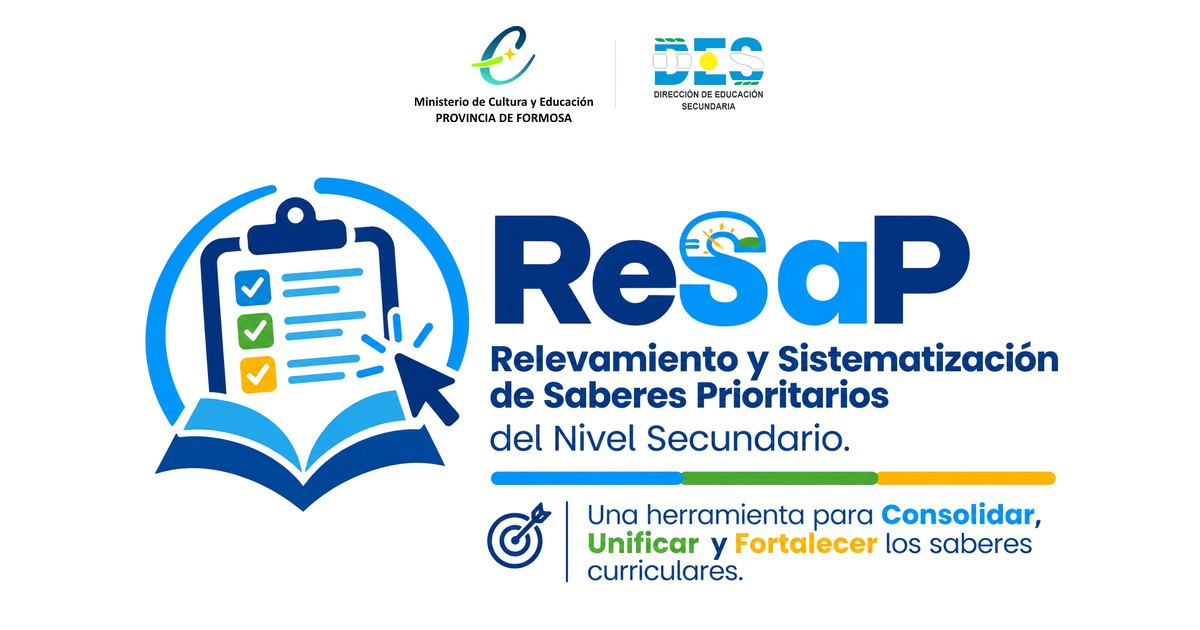
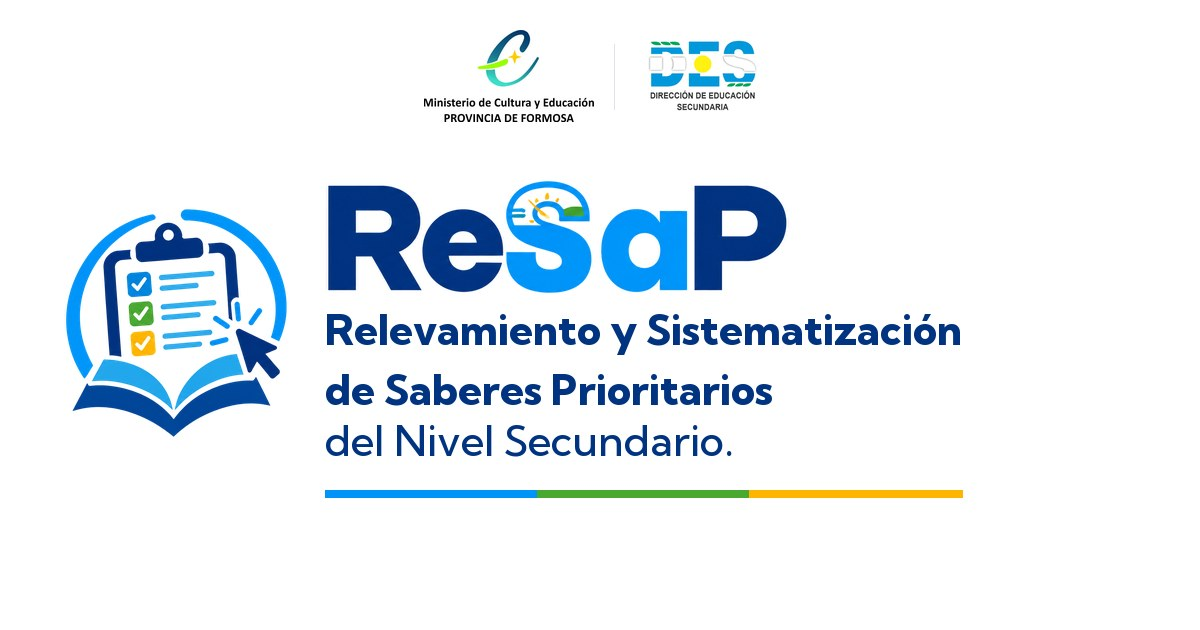
Vista previa nítida y distinta para el formulario y el panel
La imagen se leía borrosa al tamaño de miniatura de WhatsApp: era la
placa recortada, con el eslogan en letra chica. Ahora recortar_resap.py
arma dos imágenes desde cero, con pocos elementos grandes: los logos,
el símbolo y "ReSaP" a mayor resolución, y el nombre completo escrito
con la tipografía de la marca (Kumbh Sans, convertida de woff2 a ttf al
vuelo con fontTools) en vez de recortado de la placa.

Las dos páginas usaban la misma imagen. Ahora se distinguen a simple
vista: el formulario lleva el filete tricolor de siempre; el panel, una
etiqueta "Equipo de Planificación Curricular" y una barra azul sola en
vez del filete, que es del formulario.

El eslogan sale de la imagen: ya está en og:description como texto real.

Changed region(s): [[0.0308, 0.2714, 0.8942, 0.9349], [0.3392, 0.0302, 0.4933, 0.2111], [0.5242, 0.0603, 0.6475, 0.181]]

diff --git a/dashboard.html b/dashboard.html
@@ -15,11 +15,11 @@
   <meta property="og:url" content="https://des-formosa.github.io/relevamiento-curricular/dashboard.html">
   <meta property="og:title" content="ReSaP — Panel de resultados">
   <meta property="og:description" content="Qué saberes y contenidos priorizan los docentes de Formosa, materia por materia. Para el equipo de Planificación Curricular: hay que ingresar con usuario.">
-  <meta property="og:image" content="https://des-formosa.github.io/relevamiento-curricular/assets/img/resap-compartir.jpg">
+  <meta property="og:image" content="https://des-formosa.github.io/relevamiento-curricular/assets/img/resap-compartir-panel.jpg">
   <meta property="og:image:type" content="image/jpeg">
   <meta property="og:image:width" content="1200">
   <meta property="og:image:height" content="630">
-  <meta property="og:image:alt" content="ReSaP: Relevamiento y Sistematización de Saberes Prioritarios del Nivel Secundario. Ministerio de Cultura y Educación y Dirección de Educación Secundaria de Formosa.">
+  <meta property="og:image:alt" content="ReSaP: Relevamiento y Sistematización de Saberes Prioritarios del Nivel Secundario. Panel del equipo de Planificación Curricular. Ministerio de Cultura y Educación y Dirección de Educación Secundaria de Formosa.">
   <meta name="twitter:card" content="summary_large_image">
   <link rel="icon" type="image/png" href="assets/img/resap-icono.png">
   <link rel="apple-touch-icon" href="assets/img/resap-icono-180.png">

diff --git a/assets/img/recortar_resap.py b/assets/img/recortar_resap.py
@@ -8,17 +8,30 @@ Genera, en esta misma carpeta:
                         cuadraditos blancos)
   resap-icono.png       el símbolo en 64 × 64, para la pestaña del navegador
   resap-icono-180.png   el mismo en 180 × 180, para el acceso directo del celular
-  resap-compartir.jpg   1200 × 630, la vista previa cuando se comparte el link
-                        (WhatsApp, Facebook, Telegram): los logos del Ministerio y
-                        la DES arriba y la placa de ReSaP debajo
+  resap-compartir.jpg        vista previa al compartir el link del formulario
+                             (WhatsApp, Facebook, Telegram): 1200 × 630, con
+                             filete tricolor
+  resap-compartir-panel.jpg  la misma, para el link del panel: para que no se
+                             confundan a simple vista, lleva una etiqueta
+                             («Equipo de Planificación Curricular») y una
+                             barra azul en vez del filete tricolor, que es
+                             del formulario
+
+Las dos vistas previas escriben el nombre con la tipografía de la marca
+(Kumbh Sans), no con la placa: al tamaño tan chico en que se ve una vista
+previa, el texto de la placa se lee borroso. La fuente es variable y
+Pillow no lee woff2, así que se convierte a ttf al vuelo con fontTools.
 
 Si llega un original con otra composición, hay que revisar las dos cajas de
-recorte de abajo. Uso: python assets/img/recortar_resap.py (necesita Pillow).
+recorte de abajo. Uso: python assets/img/recortar_resap.py
+(necesita Pillow y fontTools: pip install pillow fonttools).
 """
+import io
 import pathlib
 from collections import deque
 
-from PIL import Image, ImageChops, ImageFilter
+from fontTools.ttLib import TTFont
+from PIL import Image, ImageChops, ImageDraw, ImageFilter, ImageFont
 
 CARPETA = pathlib.Path(__file__).resolve().parent
 MARGEN = 6          # px de aire alrededor de lo recortado
@@ -92,31 +105,119 @@ cuadro.paste(simbolo, ((lado - simbolo.width) // 2, (lado - simbolo.height) // 2
 cuadro.resize((64, 64), Image.LANCZOS).save(CARPETA / 'resap-icono.png', optimize=True)
 cuadro.resize((180, 180), Image.LANCZOS).save(CARPETA / 'resap-icono-180.png', optimize=True)
 
-# Vista previa para compartir: 1200 × 630 es la proporción que WhatsApp muestra
-# grande. En JPG y liviana: con más de 300 KB algunos celulares no la bajan.
+# ----------------------------------------------------------------------------
+# Vista previa al compartir el link (WhatsApp, Facebook, Telegram)
+# ----------------------------------------------------------------------------
+# 1200 × 630 es la proporción que se ve grande. Pocos elementos, grandes: a
+# ese tamaño la vista previa se ve como una miniatura chica en la lista de
+# chats, y la placa entera (con la letra chica del eslogan) se leía borrosa.
+# El nombre completo, el título y el eslogan del docente ya van como texto
+# real en las etiquetas Open Graph (og:title, og:description); la imagen no
+# los repite, así que no hace falta apretar tanto texto en ella.
 ANCHO, ALTO = 1200, 630
-lienzo = Image.new('RGB', (ANCHO, ALTO), (255, 255, 255))
-logos = [Image.open(CARPETA / 'logo-ministerio.webp').convert('RGB'), Image.open(CARPETA / 'logo-secundaria.webp').convert('RGB')]
-alto_logo = 96
-logos = [l.resize((round(l.width * alto_logo / l.height), alto_logo), Image.LANCZOS) for l in logos]
-separacion = 44
-x = (ANCHO - sum(l.width for l in logos) - separacion) // 2
-for i, l in enumerate(logos):
-    lienzo.paste(l, (x, 26))
-    x += l.width + separacion
-    if i == 0:
-        for y in range(40, 26 + alto_logo - 14):
-            lienzo.putpixel((x - separacion // 2, y), (222, 227, 235))
-placa = original.copy()
-# El fondo de la placa no es blanco parejo: tiene zonas gris azuladas muy
-# claras que sobre el lienzo blanco dibujan un recuadro. Lo casi blanco, a blanco.
-r, g, b = placa.split()
-casi_blanco = ImageChops.darker(ImageChops.darker(r, g), b).point(lambda v: 255 if v >= 236 else 0)
-placa.paste((255, 255, 255), mask=casi_blanco)
-arriba = 26 + alto_logo + 18
-lugar = (ANCHO - 80, ALTO - arriba - 24)
-escala = min(lugar[0] / placa.width, lugar[1] / placa.height)
-placa = placa.resize((round(placa.width * escala), round(placa.height * escala)), Image.LANCZOS)
-lienzo.paste(placa, ((ANCHO - placa.width) // 2, arriba + (lugar[1] - placa.height) // 2))
-lienzo.save(CARPETA / 'resap-compartir.jpg', quality=86, optimize=True, progressive=True)
-print('resap-compartir ->', lienzo.size, round((CARPETA / 'resap-compartir.jpg').stat().st_size / 1024), 'KB')
+MARGEN_LATERAL = 64
+AZUL = (0, 51, 128)
+LADRILLO = (177, 74, 18)
+CELESTE, VERDE, AMARILLO = (0, 148, 249), (73, 168, 48), (254, 181, 1)
+
+
+def _fuente_kumbh(peso, tamano):
+    """Kumbh Sans es variable y Pillow no lee woff2: se convierte una vez, en
+    memoria, y se pide el peso (400 regular, 500 medio, 800 bold)."""
+    origen = TTFont(CARPETA / '..' / 'fuentes' / 'kumbh-sans-latin.woff2')
+    origen.flavor = None
+    buffer = io.BytesIO()
+    origen.save(buffer)
+    buffer.seek(0)
+    fuente = ImageFont.truetype(buffer, tamano)
+    fuente.set_variation_by_axes([peso])
+    return fuente
+
+
+def _icono_grande(alto):
+    """El símbolo (portapapeles + libro), recortado a mayor resolución que el
+    resap-simbolo.png chico de la cabecera, para que no se vea borroso acá."""
+    parte = original.crop((40, 40, 700, 720))
+    x0, y0, x1, y1 = caja_sin_blanco(parte)
+    parte = parte.crop((max(0, x0 - MARGEN), max(0, y0 - MARGEN), min(parte.width, x1 + MARGEN), min(parte.height, y1 + MARGEN)))
+    limpia = sin_fondo(parte)
+    return limpia.resize((round(limpia.width * alto / limpia.height), alto), Image.LANCZOS)
+
+
+def _palabra_grande(alto):
+    """«ReSaP», recortada a mayor resolución que resap-palabra.png."""
+    parte = original.crop((700, 90, 1640, 360))
+    x0, y0, x1, y1 = caja_sin_blanco(parte)
+    parte = parte.crop((max(0, x0 - MARGEN), max(0, y0 - MARGEN), min(parte.width, x1 + MARGEN), min(parte.height, y1 + MARGEN)))
+    limpia = sin_fondo(parte, todo=True)
+    return limpia.resize((round(limpia.width * alto / limpia.height), alto), Image.LANCZOS)
+
+
+def _lienzo_base():
+    """Lo que comparten las dos vistas previas: fondo blanco y los logos del
+    Ministerio y de la DES arriba, centrados."""
+    lienzo = Image.new('RGB', (ANCHO, ALTO), (255, 255, 255))
+    logos = [Image.open(CARPETA / 'logo-ministerio.webp').convert('RGB'), Image.open(CARPETA / 'logo-secundaria.webp').convert('RGB')]
+    alto_logo = 92
+    logos = [l.resize((round(l.width * alto_logo / l.height), alto_logo), Image.LANCZOS) for l in logos]
+    separacion = 40
+    x = (ANCHO - sum(l.width for l in logos) - separacion) // 2
+    for i, l in enumerate(logos):
+        lienzo.paste(l, (x, 30))
+        x += l.width + separacion
+        if i == 0:
+            for y in range(44, 30 + alto_logo - 12):
+                lienzo.putpixel((x - separacion // 2, y), (222, 227, 235))
+    return lienzo
+
+
+def _vista_previa(nombre, etiqueta=None, color_barra='tricolor'):
+    """Arma una vista previa: logos, el símbolo con «ReSaP» y el nombre
+    completo al lado, y una barra abajo. Con etiqueta, va arriba del lockup
+    (así se distingue el link del panel a simple vista, sin leer el texto)."""
+    lienzo = _lienzo_base()
+    d = ImageDraw.Draw(lienzo)
+    icono = _icono_grande(232)
+    palabra = _palabra_grande(118)
+    f_nombre_bold = _fuente_kumbh(800, 42)
+    f_nombre_medio = _fuente_kumbh(500, 42)
+    lineas = [('Relevamiento y Sistematización', f_nombre_bold), ('de Saberes Prioritarios', f_nombre_bold), ('del Nivel Secundario.', f_nombre_medio)]
+    interlineado = 8
+    alturas = [d.textbbox((0, 0), t, font=f)[3] for t, f in lineas]
+    alto_texto = sum(alturas) + interlineado * (len(lineas) - 1)
+    gap_palabra_texto = 18
+    alto_lockup = palabra.height + gap_palabra_texto + alto_texto
+    y_lockup = 178 if not etiqueta else 214
+    x_icono = MARGEN_LATERAL
+    y_icono = y_lockup + (alto_lockup - icono.height) // 2
+    lienzo.paste(icono, (x_icono, y_icono), icono)
+    x_texto = x_icono + icono.width + 36
+    lienzo.paste(palabra, (x_texto, y_lockup), palabra)
+    y = y_lockup + palabra.height + gap_palabra_texto
+    ancho_texto = 0
+    for (t, f), alto_linea in zip(lineas, alturas):
+        caja = d.textbbox((0, 0), t, font=f)
+        d.text((x_texto, y - caja[1]), t, font=f, fill=AZUL)
+        ancho_texto = max(ancho_texto, caja[2] - caja[0])
+        y += alto_linea + interlineado
+    if etiqueta:
+        f_etq = _fuente_kumbh(800, 24)
+        d.text((x_texto, y_lockup - 40), etiqueta.upper(), font=f_etq, fill=LADRILLO)
+    y_barra = y + 14
+    x1_barra = x_texto + ancho_texto
+    if color_barra == 'tricolor':
+        tercio = (x1_barra - x_texto) / 3
+        for i, color in enumerate((CELESTE, VERDE, AMARILLO)):
+            d.rectangle([x_texto + tercio * i, y_barra, x_texto + tercio * (i + 1), y_barra + 7], fill=color)
+    else:
+        d.rectangle([x_texto, y_barra, x1_barra, y_barra + 7], fill=color_barra)
+    return lienzo
+
+
+docente = _vista_previa('resap-compartir')
+docente.save(CARPETA / 'resap-compartir.jpg', quality=88, optimize=True, progressive=True)
+print('resap-compartir ->', docente.size, round((CARPETA / 'resap-compartir.jpg').stat().st_size / 1024), 'KB')
+
+panel = _vista_previa('resap-compartir-panel', etiqueta='Equipo de Planificación Curricular', color_barra=AZUL)
+panel.save(CARPETA / 'resap-compartir-panel.jpg', quality=88, optimize=True, progressive=True)
+print('resap-compartir-panel ->', panel.size, round((CARPETA / 'resap-compartir-panel.jpg').stat().st_size / 1024), 'KB')

diff --git a/CLAUDE.md b/CLAUDE.md
@@ -326,19 +326,35 @@ Dónde va, armado siempre igual (`marcaResap()` en `formulario.js` y en `dashboa
 | Cabeceras (formulario y panel) | símbolo y palabra chicos (`resapChico()`), después de los logos del Ministerio y la DES. **No en el inicio del panel**, que ya tiene el grande: dos veces el mismo logo en una pantalla sobra |
 | PDF exportados | símbolo, palabra y nombre en una línea arriba de todo (`marcaDocumento()`) |
 | Pestaña del navegador | `resap-icono.png` (y `resap-icono-180.png` para el acceso directo del celular) |
-| Vista previa al compartir el link | `resap-compartir.jpg` (1200 × 630): los logos del Ministerio y la DES arriba y la placa de ReSaP debajo |
+| Vista previa al compartir el link | `resap-compartir.jpg` (formulario) y `resap-compartir-panel.jpg` (panel), 1200 × 630 |
 
-**Vista previa en WhatsApp** (25/09/2026). El link se reparte por WhatsApp, y sin vista previa
-llega como una dirección pelada que el docente puede tomar por un engaño. Las dos páginas llevan
-en el `<head>` las etiquetas *Open Graph* (`og:title`, `og:description`, `og:image`…) que leen
-WhatsApp, Facebook y Telegram: el formulario dice «Contanos qué saberes y contenidos trabajás ·
-unos 10 minutos, sin usuario ni contraseña»; el panel, que es para el equipo y pide usuario.
-Las direcciones van **completas** (`https://des-formosa.github.io/…`), porque quien arma la vista
-previa no sabe de qué sitio viene: si el sitio cambia de dirección, hay que cambiarlas. La imagen
-es JPG de menos de 100 KB (con más de 300 KB algunos celulares no la bajan) y la genera
-`recortar_resap.py`, que además pasa a blanco puro el fondo casi blanco de la placa. WhatsApp
-guarda la vista previa de cada dirección un tiempo: un link que ya se había compartido sin
-vista previa puede seguir apareciendo así; agregándole algo al final (`?v=2`) se ve la nueva.
+**Vista previa en WhatsApp** (25/09/2026, retocada el mismo día). El link se reparte por
+WhatsApp, y sin vista previa llega como una dirección pelada que el docente puede tomar por un
+engaño. Las dos páginas llevan en el `<head>` las etiquetas *Open Graph* (`og:title`,
+`og:description`, `og:image`…) que leen WhatsApp, Facebook y Telegram: el formulario dice
+«Contanos qué saberes y contenidos trabajás · unos 10 minutos, sin usuario ni contraseña»; el
+panel, que es para el equipo y pide usuario. Las direcciones van **completas**
+(`https://des-formosa.github.io/…`), porque quien arma la vista previa no sabe de qué sitio
+viene: si el sitio cambia de dirección, hay que cambiarlas.
+
+**Dos imágenes, no una.** La primera versión usaba la misma imagen (la placa recortada) para
+los dos links, y a la vez el eslogan en letra chica se leía borroso: una vista previa se ve del
+tamaño de una miniatura en la lista de chats. Ahora `recortar_resap.py` arma las dos por
+separado, con pocos elementos grandes en vez de la placa entera: los logos del Ministerio y la
+DES arriba, el símbolo y «ReSaP» a mayor resolución que los de la cabecera, y el nombre completo
+**escrito con la tipografía de la marca** (Kumbh Sans convertida de woff2 a ttf al vuelo con
+fontTools, porque Pillow no lee woff2), no recortado de la placa: así se ve nítido a cualquier
+tamaño, igual que en pantalla. Lo que distingue una de otra, para que no se confundan al mirar
+la miniatura sin leer el texto:
+- **Formulario:** el filete tricolor de siempre, sin nada más arriba.
+- **Panel:** una etiqueta en ladrillo, «EQUIPO DE PLANIFICACIÓN CURRICULAR», y una sola barra
+  azul en vez del filete tricolor, que es del formulario.
+
+El eslogan no va en la imagen: ya está en `og:description`, y ponerlo en letra chica es lo que
+la hacía ilegible en miniatura. Las dos son JPG de unos 70-80 KB (con más de 300 KB algunos
+celulares no las bajan). WhatsApp guarda la vista previa de cada dirección un tiempo: un link
+que ya se había compartido puede seguir mostrando la versión vieja; agregándole algo al final
+(`?v=2`) se ve la nueva.
 
 **El logo es para fondo claro.** Su azul marino es el mismo de los botones, así que sobre un
 bloque azul se pierde. Por eso la bienvenida y el ingreso, que antes eran un panel oscuro,
@@ -954,8 +970,10 @@ relevamiento: el gratuito pausa proyectos por inactividad y limita conexiones si
   de 320 a 1920 px: sin scroll horizontal en ningún ancho, la cabecera del panel en una fila
   desde 1280, «Comenzar» a la vista en un teléfono de 360 × 640. De paso se arregló que en el
   teléfono la cabecera del panel se saliera de la pantalla cuando la marca no entraba
-- **Vista previa al compartir** (25/09/2026): etiquetas Open Graph en el formulario y el panel, e
-  imagen `resap-compartir.jpg` de 1200 × 630 (89 KB). Ver «La marca»
+- **Vista previa al compartir** (25/09/2026): etiquetas Open Graph en el formulario y el panel,
+  con una imagen distinta cada uno (`resap-compartir.jpg` y `resap-compartir-panel.jpg`,
+  1200 × 630, 70-80 KB), el nombre escrito con la tipografía de la marca en vez de recortado de
+  la placa. Ver «La marca»
 - **PDF de barras sin huecos** (25/09/2026): los trimestres van de corrido y los saberes largos
   siguen en la hoja siguiente sin dejar encabezados sueltos (ver «Exportar»). Medido sobre los
   PDF generados con un Supabase simulado: Lengua completa pasó de 36 a 34 hojas y Matemática de
